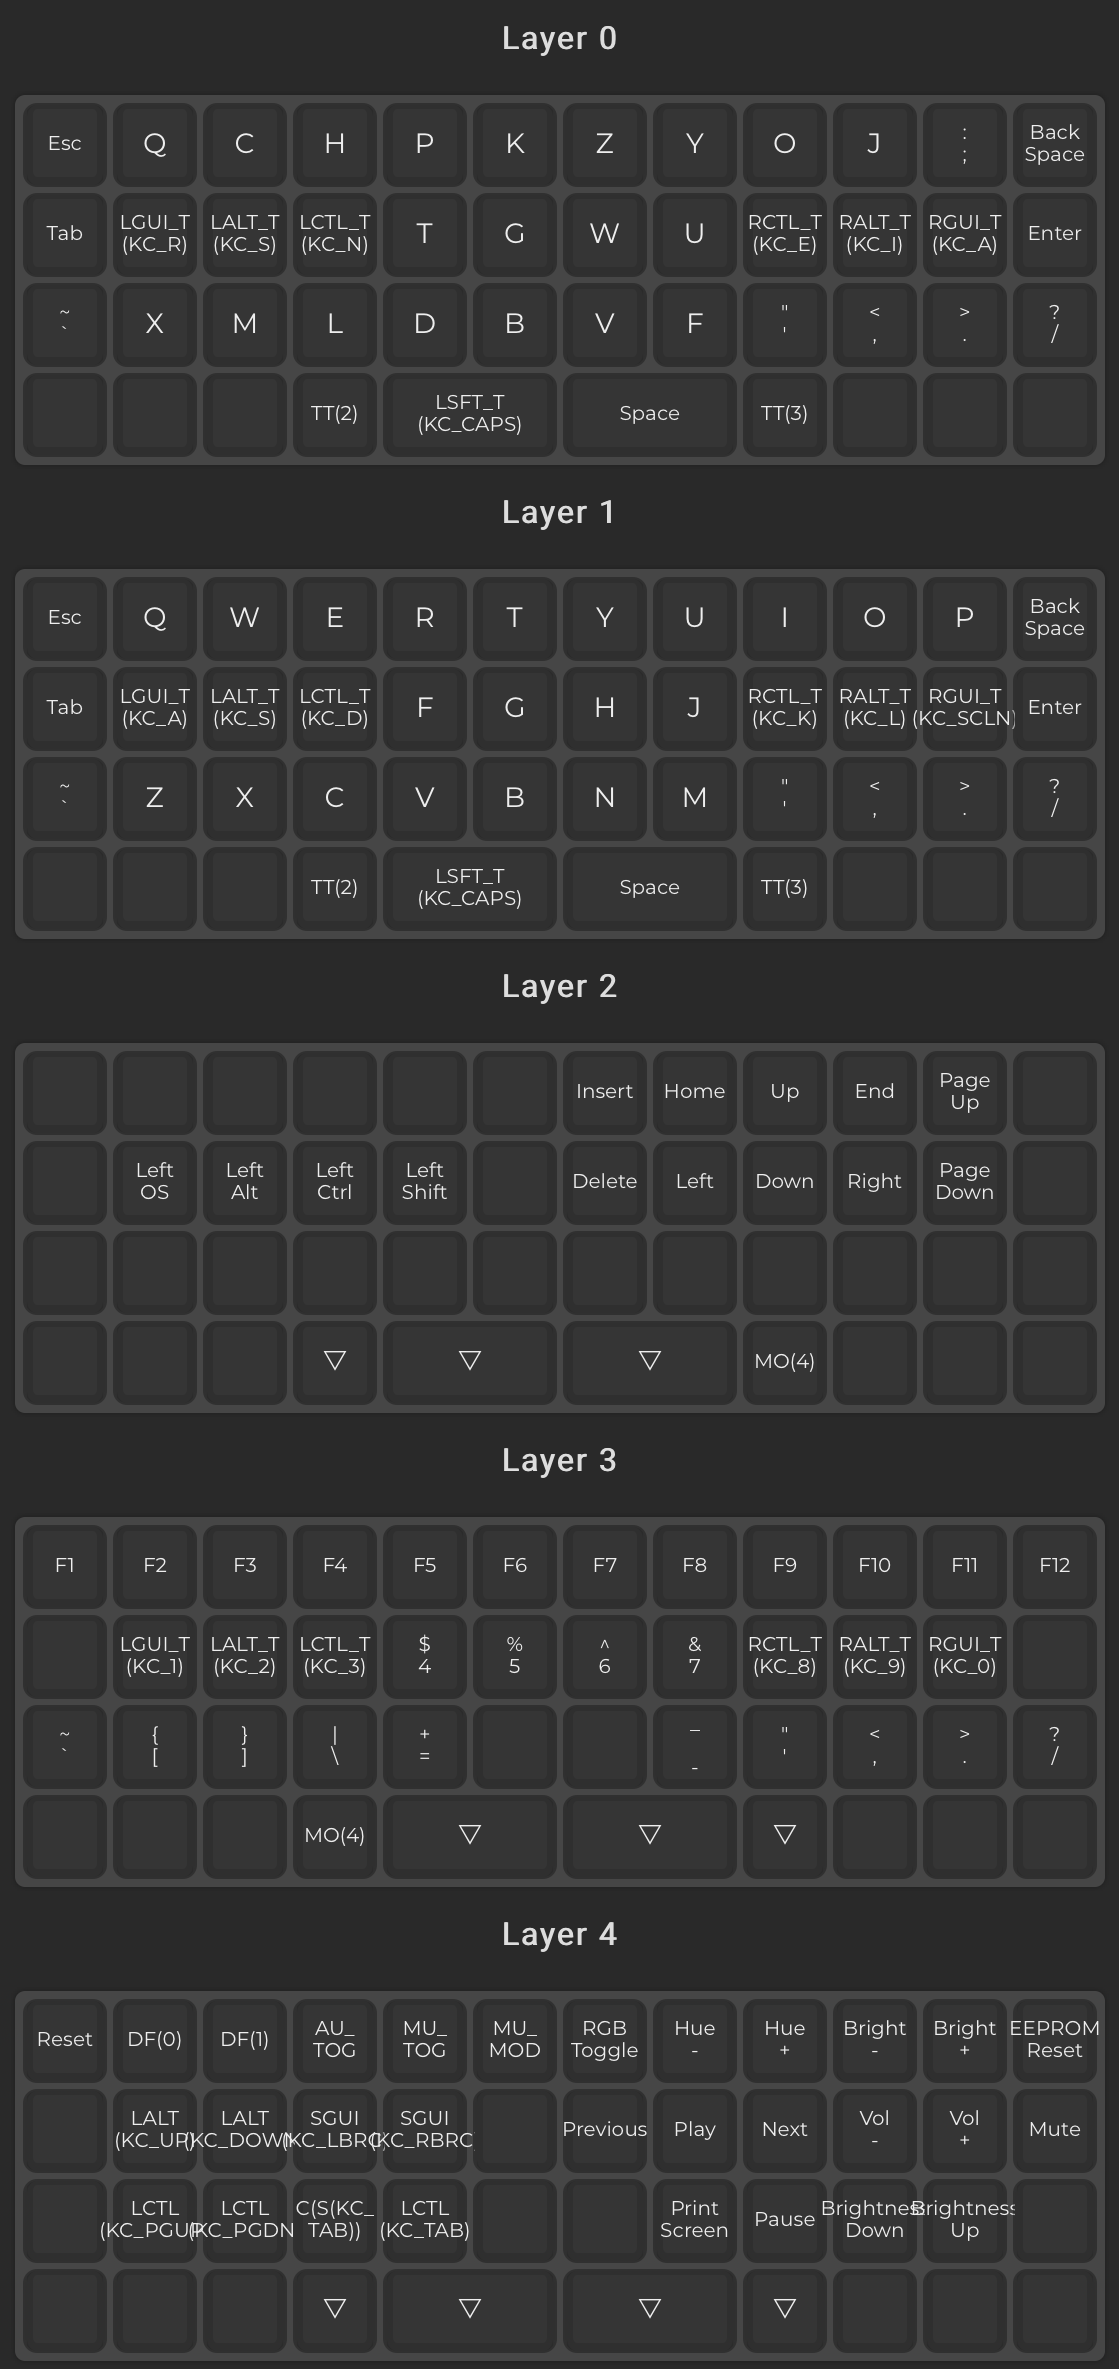
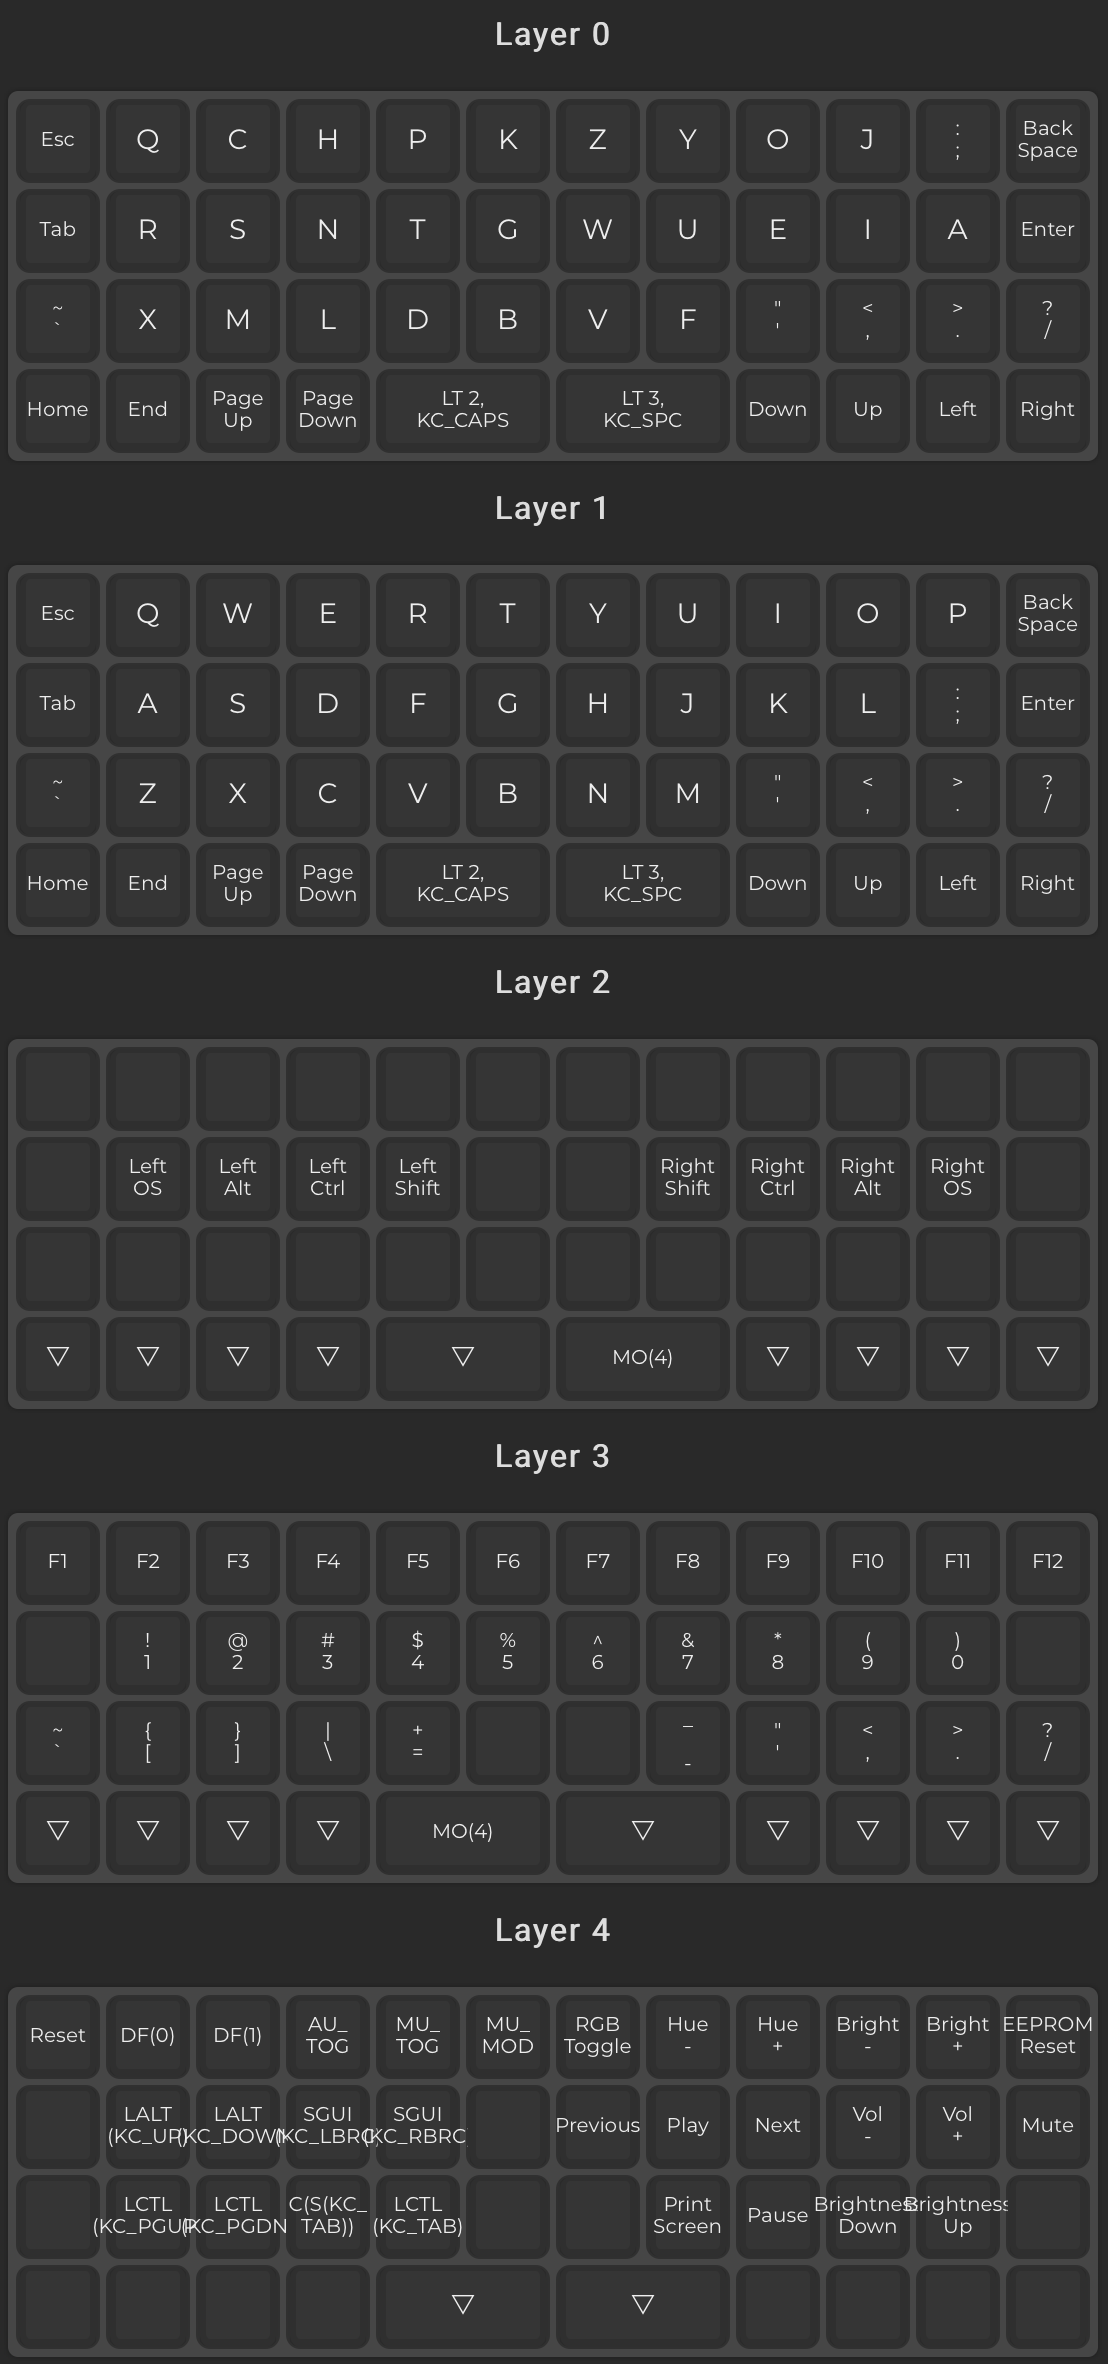
Auto shift and layer mods

diff --git a/keymap.c b/keymap.c
@@ -7,9 +7,9 @@
  */
 
 const uint16_t PROGMEM keymaps[][MATRIX_ROWS][MATRIX_COLS] = {
-	[0] = LAYOUT_planck_2x2u(KC_ESC, KC_Q, KC_C, KC_H, KC_P, KC_K, KC_Z, KC_Y, KC_O, KC_J, KC_SCLN, KC_BSPC, KC_TAB, LGUI_T(KC_R), LALT_T(KC_S), LCTL_T(KC_N), KC_T, KC_G, KC_W, KC_U, RCTL_T(KC_E), RALT_T(KC_I), RGUI_T(KC_A), KC_ENT, KC_GRV, KC_X, KC_M, KC_L, KC_D, KC_B, KC_V, KC_F, KC_QUOT, KC_COMM, KC_DOT, KC_SLSH, KC_NO, KC_NO, KC_NO, TT(2), LSFT_T(KC_CAPS), KC_SPC, TT(3), KC_NO, KC_NO, KC_NO),
-	[1] = LAYOUT_planck_2x2u(KC_ESC, KC_Q, KC_W, KC_E, KC_R, KC_T, KC_Y, KC_U, KC_I, KC_O, KC_P, KC_BSPC, KC_TAB, LGUI_T(KC_A), LALT_T(KC_S), LCTL_T(KC_D), KC_F, KC_G, KC_H, KC_J, RCTL_T(KC_K), RALT_T(KC_L), RGUI_T(KC_SCLN), KC_ENT, KC_GRV, KC_Z, KC_X, KC_C, KC_V, KC_B, KC_N, KC_M, KC_QUOT, KC_COMM, KC_DOT, KC_SLSH, KC_NO, KC_NO, KC_NO, TT(2), LSFT_T(KC_CAPS), KC_SPC, TT(3), KC_NO, KC_NO, KC_NO),
-	[2] = LAYOUT_planck_2x2u(KC_NO, KC_NO, KC_NO, KC_NO, KC_NO, KC_NO, KC_INS, KC_HOME, KC_UP, KC_END, KC_PGUP, KC_NO, KC_NO, KC_LGUI, KC_LALT, KC_LCTL, KC_LSFT, KC_NO, KC_DEL, KC_LEFT, KC_DOWN, KC_RGHT, KC_PGDN, KC_NO, KC_NO, KC_NO, KC_NO, KC_NO, KC_NO, KC_NO, KC_NO, KC_NO, KC_NO, KC_NO, KC_NO, KC_NO, KC_NO, KC_NO, KC_NO, KC_TRNS, KC_TRNS, KC_TRNS, MO(4), KC_NO, KC_NO, KC_NO),
-	[3] = LAYOUT_planck_2x2u(KC_F1, KC_F2, KC_F3, KC_F4, KC_F5, KC_F6, KC_F7, KC_F8, KC_F9, KC_F10, KC_F11, KC_F12, KC_NO, LGUI_T(KC_1), LALT_T(KC_2), LCTL_T(KC_3), KC_4, KC_5, KC_6, KC_7, RCTL_T(KC_8), RALT_T(KC_9), RGUI_T(KC_0), KC_NO, KC_GRV, KC_LBRC, KC_RBRC, KC_BSLS, KC_EQL, KC_NO, KC_NO, KC_MINS, KC_QUOT, KC_COMM, KC_DOT, KC_SLSH, KC_NO, KC_NO, KC_NO, MO(4), KC_TRNS, KC_TRNS, KC_TRNS, KC_NO, KC_NO, KC_NO),
-	[4] = LAYOUT_planck_2x2u(RESET, DF(0), DF(1), AU_TOG, MU_TOG, MU_MOD, RGB_TOG, RGB_HUD, RGB_HUI, RGB_VAD, RGB_VAI, EEP_RST, KC_NO, LALT(KC_UP), LALT(KC_DOWN), SGUI(KC_LBRC), SGUI(KC_RBRC), KC_NO, KC_MPRV, KC_MPLY, KC_MNXT, KC_VOLD, KC_VOLU, KC_MUTE, KC_NO, LCTL(KC_PGUP), LCTL(KC_PGDN), C(S(KC_TAB)), LCTL(KC_TAB), KC_NO, KC_NO, KC_PSCR, KC_PAUS, KC_BRID, KC_BRIU, KC_NO, KC_NO, KC_NO, KC_NO, KC_TRNS, KC_TRNS, KC_TRNS, KC_TRNS, KC_NO, KC_NO, KC_NO)
+	[0] = LAYOUT_planck_2x2u(KC_ESC, KC_Q, KC_C, KC_H, KC_P, KC_K, KC_Z, KC_Y, KC_O, KC_J, KC_SCLN, KC_BSPC, KC_TAB, KC_R, KC_S, KC_N, KC_T, KC_G, KC_W, KC_U, KC_E, KC_I, KC_A, KC_ENT, KC_GRV, KC_X, KC_M, KC_L, KC_D, KC_B, KC_V, KC_F, KC_QUOT, KC_COMM, KC_DOT, KC_SLSH, KC_HOME, KC_END, KC_PGUP, KC_PGDN, LT(2,KC_CAPS), LT(3,KC_SPC), KC_DOWN, KC_UP, KC_LEFT, KC_RGHT),
+	[1] = LAYOUT_planck_2x2u(KC_ESC, KC_Q, KC_W, KC_E, KC_R, KC_T, KC_Y, KC_U, KC_I, KC_O, KC_P, KC_BSPC, KC_TAB, KC_A, KC_S, KC_D, KC_F, KC_G, KC_H, KC_J, KC_K, KC_L, KC_SCLN, KC_ENT, KC_GRV, KC_Z, KC_X, KC_C, KC_V, KC_B, KC_N, KC_M, KC_QUOT, KC_COMM, KC_DOT, KC_SLSH, KC_HOME, KC_END, KC_PGUP, KC_PGDN, LT(2,KC_CAPS), LT(3,KC_SPC), KC_DOWN, KC_UP, KC_LEFT, KC_RGHT),
+	[2] = LAYOUT_planck_2x2u(KC_NO, KC_NO, KC_NO, KC_NO, KC_NO, KC_NO, KC_NO, KC_NO, KC_NO, KC_NO, KC_NO, KC_NO, KC_NO, KC_LGUI, KC_LALT, KC_LCTL, KC_LSFT, KC_NO, KC_NO, KC_RSFT, KC_RCTL, KC_RALT, KC_RGUI, KC_NO, KC_NO, KC_NO, KC_NO, KC_NO, KC_NO, KC_NO, KC_NO, KC_NO, KC_NO, KC_NO, KC_NO, KC_NO, KC_TRNS, KC_TRNS, KC_TRNS, KC_TRNS, KC_TRNS, MO(4), KC_TRNS, KC_TRNS, KC_TRNS, KC_TRNS),
+	[3] = LAYOUT_planck_2x2u(KC_F1, KC_F2, KC_F3, KC_F4, KC_F5, KC_F6, KC_F7, KC_F8, KC_F9, KC_F10, KC_F11, KC_F12, KC_NO, KC_1, KC_2, KC_3, KC_4, KC_5, KC_6, KC_7, KC_8, KC_9, KC_0, KC_NO, KC_GRV, KC_LBRC, KC_RBRC, KC_BSLS, KC_EQL, KC_NO, KC_NO, KC_MINS, KC_QUOT, KC_COMM, KC_DOT, KC_SLSH, KC_TRNS, KC_TRNS, KC_TRNS, KC_TRNS, MO(4), KC_TRNS, KC_TRNS, KC_TRNS, KC_TRNS, KC_TRNS),
+	[4] = LAYOUT_planck_2x2u(RESET, DF(0), DF(1), AU_TOG, MU_TOG, MU_MOD, RGB_TOG, RGB_HUD, RGB_HUI, RGB_VAD, RGB_VAI, EEP_RST, KC_NO, LALT(KC_UP), LALT(KC_DOWN), SGUI(KC_LBRC), SGUI(KC_RBRC), KC_NO, KC_MPRV, KC_MPLY, KC_MNXT, KC_VOLD, KC_VOLU, KC_MUTE, KC_NO, LCTL(KC_PGUP), LCTL(KC_PGDN), C(S(KC_TAB)), LCTL(KC_TAB), KC_NO, KC_NO, KC_PSCR, KC_PAUS, KC_BRID, KC_BRIU, KC_NO, KC_NO, KC_NO, KC_NO, KC_NO, KC_TRNS, KC_TRNS, KC_NO, KC_NO, KC_NO, KC_NO)
 };

diff --git a/config.h b/config.h
@@ -7,6 +7,6 @@
 // #define TAPPING_FORCE_HOLD // Incompatible with oneshot toggle
 
 /*
- * Toggle options
+ * Autoshift options
  */
-#define TAPPING_TOGGLE 2
+#define AUTO_SHIFT_TIMEOUT 150
